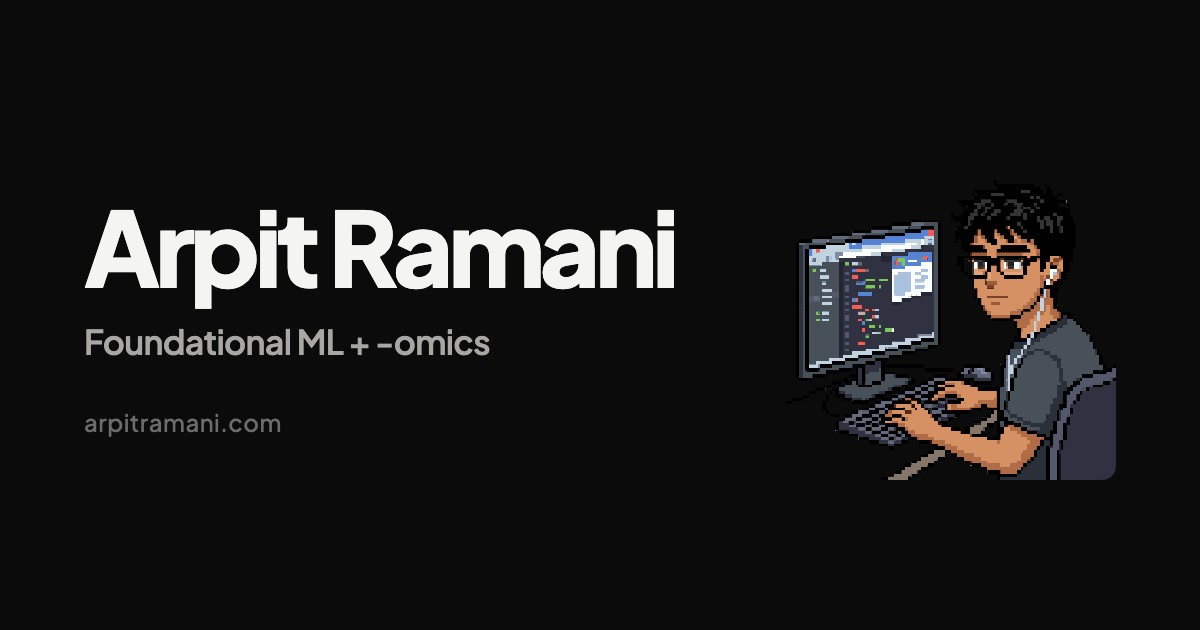
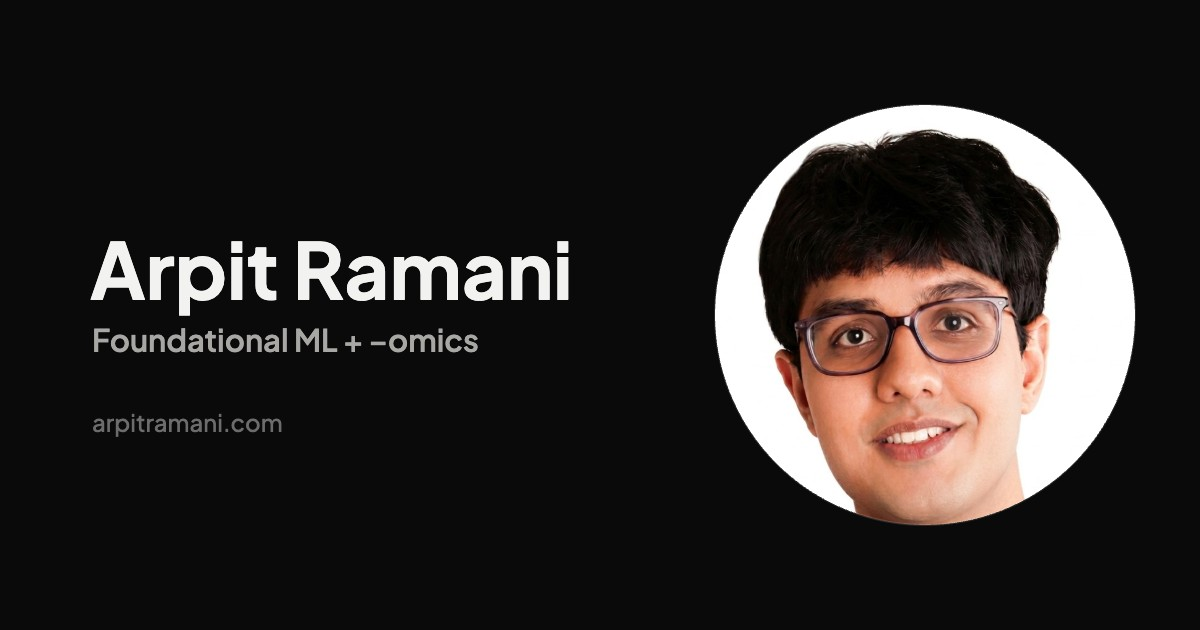
Make the photograph the image that represents the site
Search results were showing the DNA/protein artwork and an "AR" monogram,
because nothing in the markup named a primary image and the artwork was simply
the largest thing on the page.

- me.jpg is the new source photograph, replacing the 256px avatar. Its bottom
  90px are cropped off: the original carried a Gemini sparkle watermark at
  (944,962)-(994,1010) in a 1024x1040 frame, and cutting it beats painting it
  out, which can resurface under a different resize.
- og.jpg is rebuilt at 1200x630 from that source, so it is sharp rather than
  upscaled. It is rendered on a canvas in the browser because that is the only
  way it gets the site's real Plus Jakarta Sans, which is served to the page
  and not installed locally. The README says how to regenerate it.
- The favicon is a face crop instead of the monogram, at 32, 48 and 180px,
  with an unsharp pass that scales up as the icon shrinks. favicon-48.png is
  new because Google asks for 48px or a multiple. At the 16-20px a favicon is
  actually drawn this reads as a person, not as a particular one; the white
  background is what keeps it from turning to mud, as the old one did.
- og:image:alt, twitter:image:alt and a primaryImageOfPage node now name the
  card explicitly on both pages. Markup cannot force the choice: a prominent
  in-page <img> still outranks it, so the portfolio page may keep omics.webp.

Also drops the .handlebar/.avatar CSS and avatar.jpg with it. That markup left
[…]

Changed region(s): [[0.0617, 0.1508, 0.9558, 0.8444], [0.0617, 0.6635, 0.2467, 0.6937]]

diff --git a/styles.css b/styles.css
@@ -62,39 +62,6 @@ a:hover { color: #fff; }
 a:hover .ext { color: var(--head); }
 
 
-/* ------------------------------- handle bar ------------------------------- */
-
-.handlebar {
-  display: flex;
-  align-items: center;
-  gap: 0.9rem;
-  margin-bottom: 4rem;
-}
-
-/* A background-image, not an <img>: nothing for the browser to offer "open
-   image in new tab" on. Deterrence only — the file is still fetchable. */
-.avatar {
-  width: 56px; height: 56px;
-  flex: none;
-  display: block;
-  border-radius: 50%;
-  background-image: url("avatar.jpg");
-  background-size: cover;
-  background-position: center;
-  background-color: var(--rule);
-  user-select: none;
-  -webkit-user-drag: none;
-  -webkit-touch-callout: none;
-}
-
-.handle {
-  font-size: 1.25rem;
-  font-weight: 700;
-  color: var(--head);
-  letter-spacing: -0.02em;
-}
-
-
 /* --------------------------------- header --------------------------------- */
 
 /* Name block on the left, pixel portrait in the space on the right.
@@ -598,17 +565,14 @@ h2 {
      under the name block. */
   .cards { grid-template-columns: minmax(0, 1fr); }
   main { padding: 1.9rem 1.25rem 4rem; }
-  .handlebar { margin-bottom: 3rem; }
   h1 { font-size: 3rem; letter-spacing: -0.04em; }
   .lede { font-size: 1.15rem; }
-  .avatar { width: 54px; height: 54px; }
   /* Side by side leaves the name about 190px on a phone. Stack instead. */
   /* Stacked, stretch would run the portrait the full width of the column. */
   .intro { flex-direction: column; align-items: center; gap: 0.5rem; }
   /* It follows the text in source order so it lands to the right on a wide
      screen; stacked it belongs above the name, not under the icon row. */
   .pixelwrap { align-self: auto; order: -1; flex: none; width: min(15rem, 68vw); }
-  .handle { font-size: 1.25rem; }
 
 
   /* The date drops under the text rather than being squeezed against it. */
@@ -639,7 +603,7 @@ h2 {
 
 @media print {
   body { background: #fff; color: #222; }
-  h1, h2, .handle, .title, .title.plain, .card h3 { color: #000; }
+  h1, h2, .title, .title.plain, .card h3 { color: #000; }
   .ext { display: none; }
   .more, .demo { display: none; }
 }

diff --git a/portfolio.html b/portfolio.html
@@ -24,17 +24,26 @@
 <meta name="twitter:title" content="Arpit Ramani — Portfolio">
 <meta name="twitter:description" content="Foundational ML + -omics. Computer science at Georgia Tech.">
 <meta name="twitter:image" content="https://www.arpitramani.com/og.jpg">
+<meta name="twitter:image:alt" content="Arpit Ramani">
 <link rel="canonical" href="https://www.arpitramani.com/portfolio.html">
 <meta property="og:site_name" content="Arpit Ramani">
 <meta property="og:locale" content="en_US">
-<meta property="og:image:alt" content="Arpit Ramani — foundational ML and -omics">
+<meta property="og:image:alt" content="Arpit Ramani">
 <meta name="robots" content="index, follow, max-image-preview:large, max-snippet:-1">
+<link rel="icon" href="/favicon-48.png" sizes="48x48" type="image/png">
 <link rel="icon" href="/favicon-32.png" sizes="32x32" type="image/png">
 <link rel="apple-touch-icon" href="/apple-touch-icon.png">
 <script type="application/ld+json">
 {
   "@context": "https://schema.org",
   "@type": "Person",
+  "primaryImageOfPage": {
+    "@type": "ImageObject",
+    "url": "https://www.arpitramani.com/og.jpg",
+    "width": 1200,
+    "height": 630,
+    "caption": "Arpit Ramani"
+  },
   "@id": "https://www.arpitramani.com/#arpit",
   "name": "Arpit Ramani",
   "url": "https://www.arpitramani.com/",

diff --git a/index.html b/index.html
@@ -25,14 +25,23 @@
 <meta name="twitter:title" content="arpit ramani">
 <meta name="twitter:description" content="cs @ gt, ml engineer @ finaldose.ai (yc p26).">
 <meta name="twitter:image" content="https://www.arpitramani.com/og.jpg">
+<meta name="twitter:image:alt" content="Arpit Ramani">
 <link rel="canonical" href="https://www.arpitramani.com/">
 <meta name="robots" content="index, follow, max-image-preview:large, max-snippet:-1">
+<link rel="icon" href="/favicon-48.png" sizes="48x48" type="image/png">
 <link rel="icon" href="/favicon-32.png" sizes="32x32" type="image/png">
 <link rel="apple-touch-icon" href="/apple-touch-icon.png">
 <script type="application/ld+json">
 {
   "@context": "https://schema.org",
   "@type": "Person",
+  "primaryImageOfPage": {
+    "@type": "ImageObject",
+    "url": "https://www.arpitramani.com/og.jpg",
+    "width": 1200,
+    "height": 630,
+    "caption": "Arpit Ramani"
+  },
   "@id": "https://www.arpitramani.com/#arpit",
   "name": "Arpit Ramani",
   "url": "https://www.arpitramani.com/",

diff --git a/README.md b/README.md
@@ -21,6 +21,12 @@ films and clubs that the "me" tab carried. Nothing loads them. Delete them
 whenever; they are kept only because the deletion is easy to regret and
 trivial to redo.
 
+me.jpg          the source photograph. Nothing loads it: it is the master
+                that og.jpg and the three icons are generated from, kept so
+                they can be regenerated without hunting for the original.
+og.jpg          1200x630 link-preview card, referenced by both pages
+favicon-32.png favicon-48.png apple-touch-icon.png
+
 resume.pdf      linked from both pages
 portfolio-text.html  an unlinked text-only draft of the portfolio, kept only
                 so it is easy to go back to. Uses min.css. noindex + robots
@@ -183,9 +189,6 @@ The next few apply to `min.css`, so they cover `portfolio-text.html` too.
   corporate and the fun tab rather than only the one it was nested in. It
   carries email, resume, GitHub and LinkedIn — Instagram came out, as the one
   link there that is not about the work.
-- **The avatar is a CSS `background-image`, not an `<img>`,** so browsers do not
-  offer "open image in new tab" on it. That is deterrence, not protection: the
-  file is still at `avatar.jpg`.
 - Logos are trimmed, squared and exported at 256px for a 32px slot. Georgia Tech
   is an SVG, so it scales on its own; `object-fit: contain` centres it.
 - **The back link (`.backhome`) is the only thing added to this page** when
@@ -194,6 +197,33 @@ The next few apply to `min.css`, so they cover `portfolio-text.html` too.
 - **Its `<title>`, `og:url` and canonical point at `/portfolio.html`,** not
   at `/`. The `WebSite` JSON-LD node moved off it for the same reason; the
   `Person` node stays, with the same `@id` as the one on the landing page.
+
+## Notes: the photograph, the card and the icons
+
+- **`me.jpg` has had its bottom 90px cut off.** The original carried a Gemini
+  sparkle watermark at (944,962)-(994,1010) in a 1024x1040 frame. It is cropped
+  away rather than painted over, so there is nothing to resurface under a
+  different resize; the crop costs sweater, not subject.
+- **`og.jpg` is rendered on a canvas in the browser, not composed offline.**
+  That is the only way it gets the site's actual Plus Jakarta Sans — the font
+  is not installed on the machine, only served to the page. To regenerate it,
+  serve the directory with a handler that accepts a POST and writes the body to
+  disk, then draw the card in the page and `fetch` it to that endpoint. Rebuild
+  it whenever the name, the tagline or the photo changes.
+- **The icons are a face crop at (215,110)-(810,705) of the master,** with an
+  unsharp pass that gets stronger as the icon gets smaller: a face downscaled
+  to 32px loses the glasses and hairline without it. Be honest about the
+  ceiling — at the 16-20px Google renders a favicon, this reads as "a person",
+  not as a specific person. The white background is doing real work there; the
+  previous photo had foliage behind it and turned to mud.
+- **`favicon-48.png` exists because Google asks for 48px or a multiple.** The
+  32px is kept alongside it for browser tabs.
+- **Nothing guarantees which image a search engine shows.** `og:image`,
+  `twitter:image`, the `Person.image` and a `primaryImageOfPage` node all name
+  the card, which is as strong a signal as markup can give. But an actual
+  prominent `<img>` in the page outranks all of it, which is why the portfolio
+  page's search thumbnail may stay `omics.webp` — that page has a large image
+  in it and the landing page does not.
 
 ## Third-party images
 
